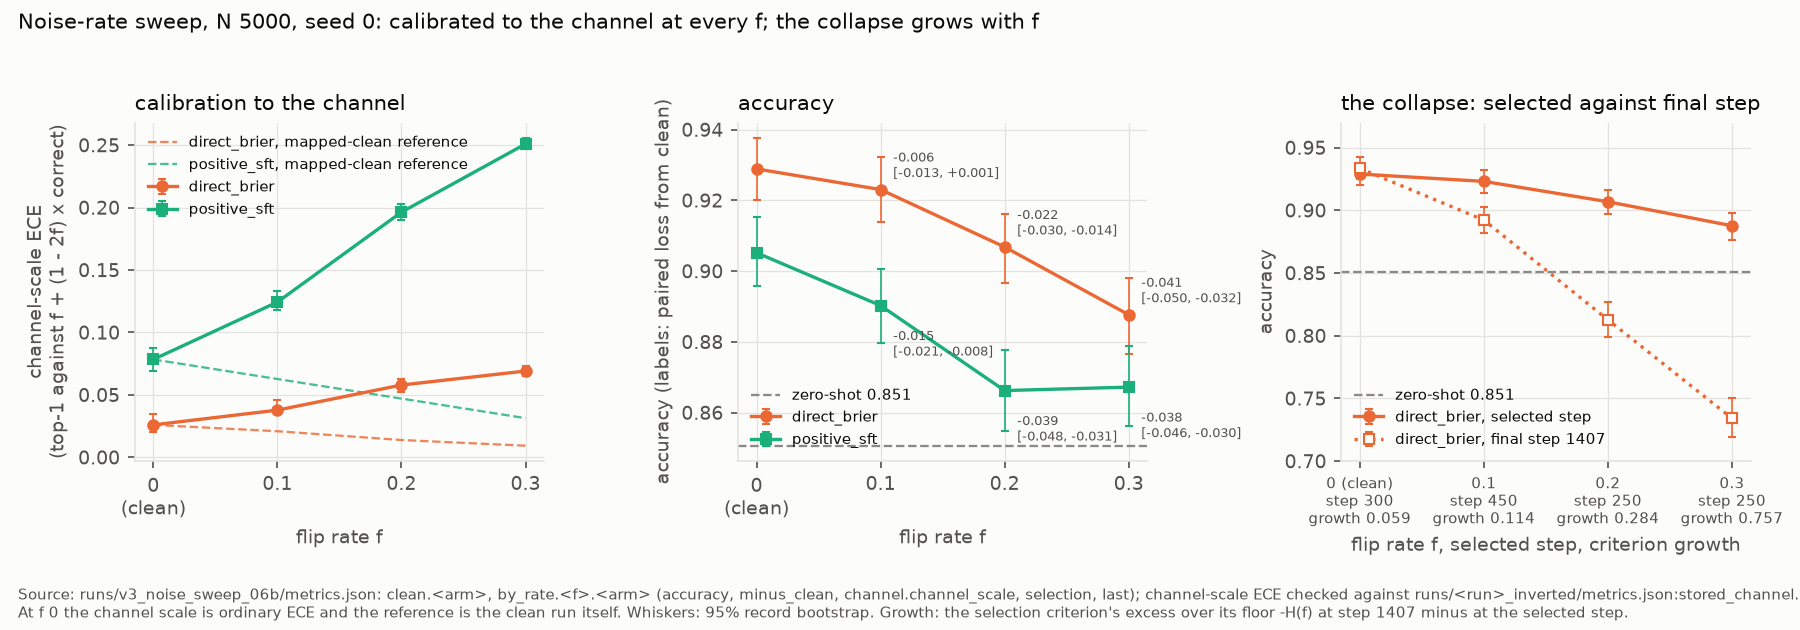
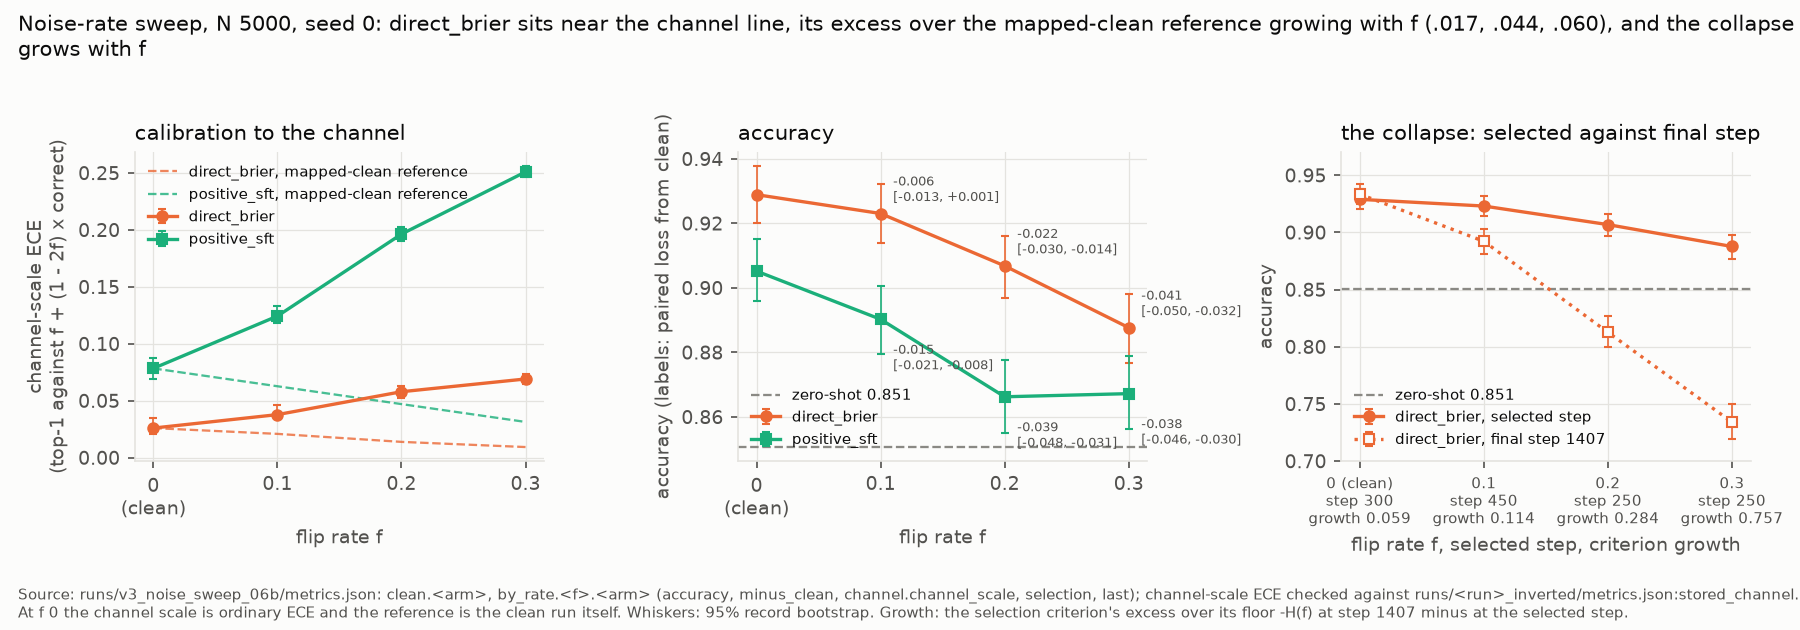
docs: noise sweep title
v4_noise_sweep.png's title says direct_brier sits near the channel line with its excess over the mapped-clean reference growing with f, the three values read from runs/v3_noise_sweep_06b/metrics.json:by_rate.<f>.direct_brier.channel.channel_scale.channel_ece_minus_reference, and that the collapse grows with f.

diff --git a/scripts/make_figures.py b/scripts/make_figures.py
@@ -486,7 +486,9 @@ def v4_noise_sweep(runs: Path, out: Path, written: list[Path]) -> None:
     ax.set_ylim(0.7, 0.97)
     ax.set_title("the collapse: selected against final step", loc="left")
     ax.legend(loc="lower left", fontsize=7)
-    fig.suptitle("Noise-rate sweep, N 5000, seed 0: calibrated to the channel at every f; the collapse grows with f", x=0.01, ha="left", fontsize=10)
+    excess = ", ".join(f"{rates[f]['direct_brier']['channel']['channel_scale']['channel_ece_minus_reference']:.3f}".replace("0.", ".", 1) for f in FLIPS)
+    fig.suptitle(f"Noise-rate sweep, N 5000, seed 0: direct_brier sits near the channel line, its excess over the mapped-clean reference growing with f "
+                 f"({excess}), and the collapse grows with f", x=0.01, ha="left", fontsize=10, wrap=True)
     fig.tight_layout(rect=(0, 0.08, 1, 0.95))
     caption(fig, "Source: runs/v3_noise_sweep_06b/metrics.json: clean.<arm>, by_rate.<f>.<arm> (accuracy, minus_clean, channel.channel_scale, selection, last); "
                  "channel-scale ECE checked against runs/<run>_inverted/metrics.json:stored_channel. At f 0 the channel scale is ordinary ECE and the reference is the clean run "
